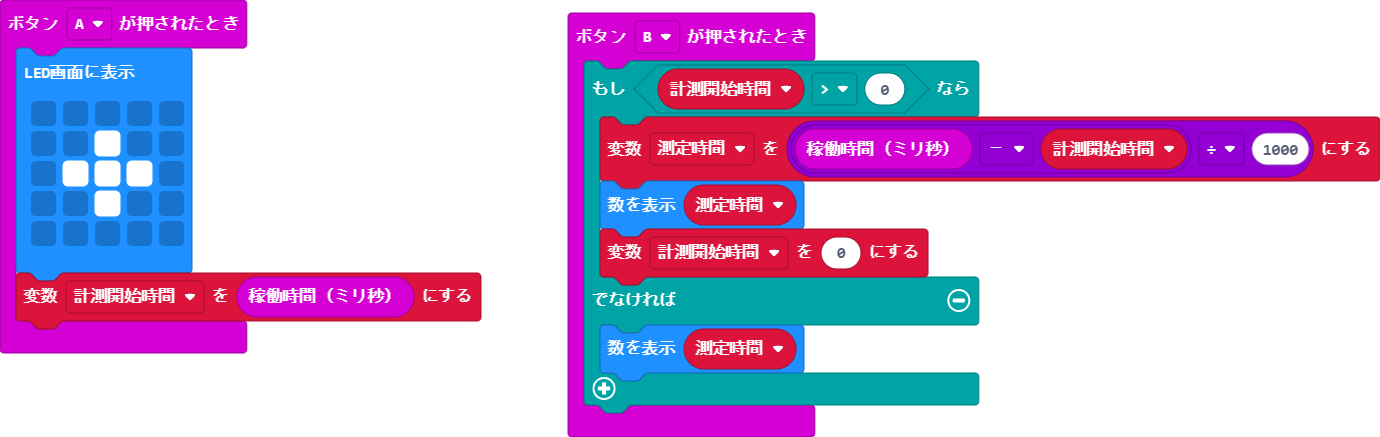
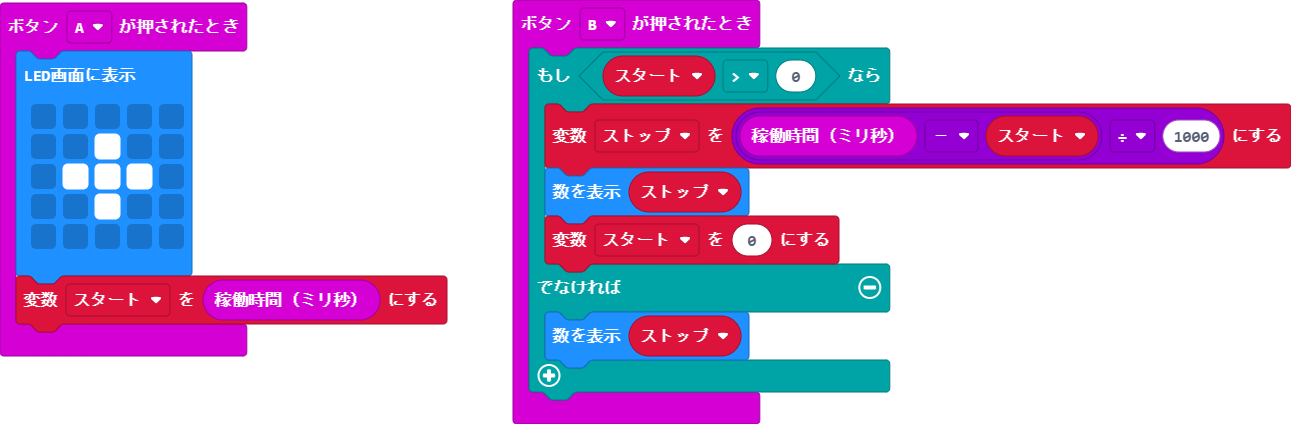
更新 main.blocks, main.ts

Changed region(s): [[0.0, 0.0, 1.0, 1.0]]

diff --git a/main.ts b/main.ts
@@ -1,5 +1,5 @@
-let 計測開始時間 = 0
-let 測定時間 = 0
+let スタート = 0
+let ストップ = 0
 input.onButtonPressed(Button.A, function () {
     basic.showLeds(`
         . . . . .
@@ -8,14 +8,14 @@ input.onButtonPressed(Button.A, function () {
         . . # . .
         . . . . .
         `)
-    計測開始時間 = input.runningTime()
+    スタート = input.runningTime()
 })
 input.onButtonPressed(Button.B, function () {
-    if (計測開始時間 > 0) {
-        測定時間 = (input.runningTime() - 計測開始時間) / 1000
-        basic.showNumber(測定時間)
-        計測開始時間 = 0
+    if (スタート > 0) {
+        ストップ = (input.runningTime() - スタート) / 1000
+        basic.showNumber(ストップ)
+        スタート = 0
     } else {
-        basic.showNumber(測定時間)
+        basic.showNumber(ストップ)
     }
 })
